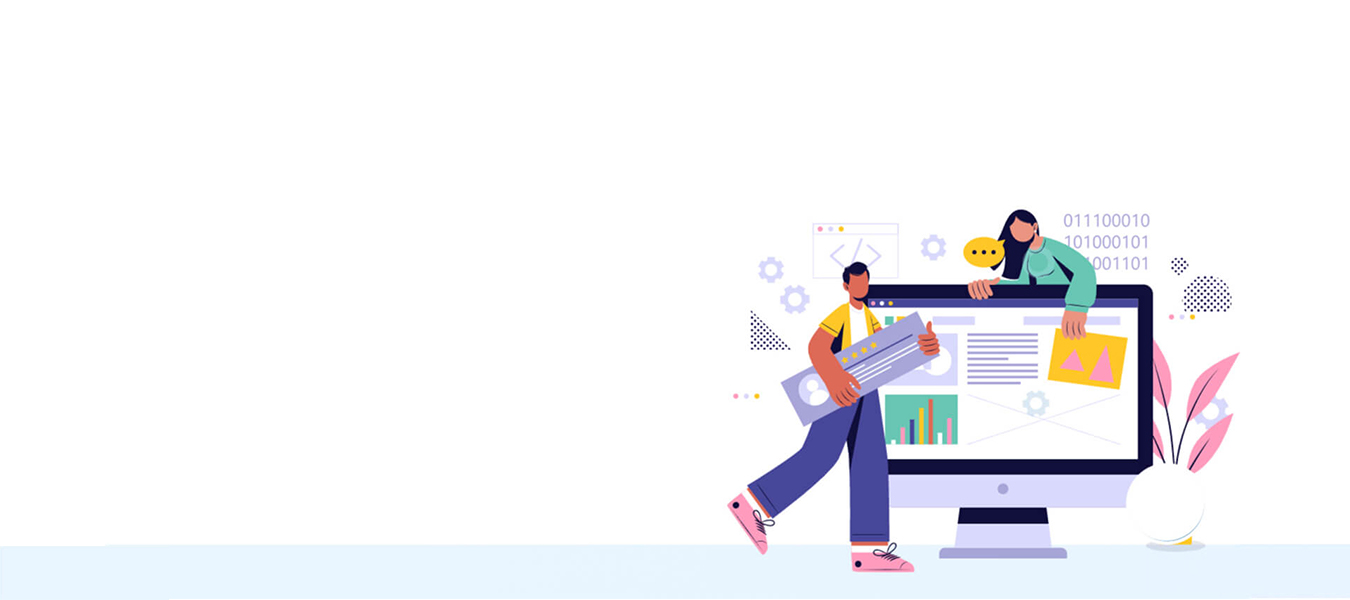
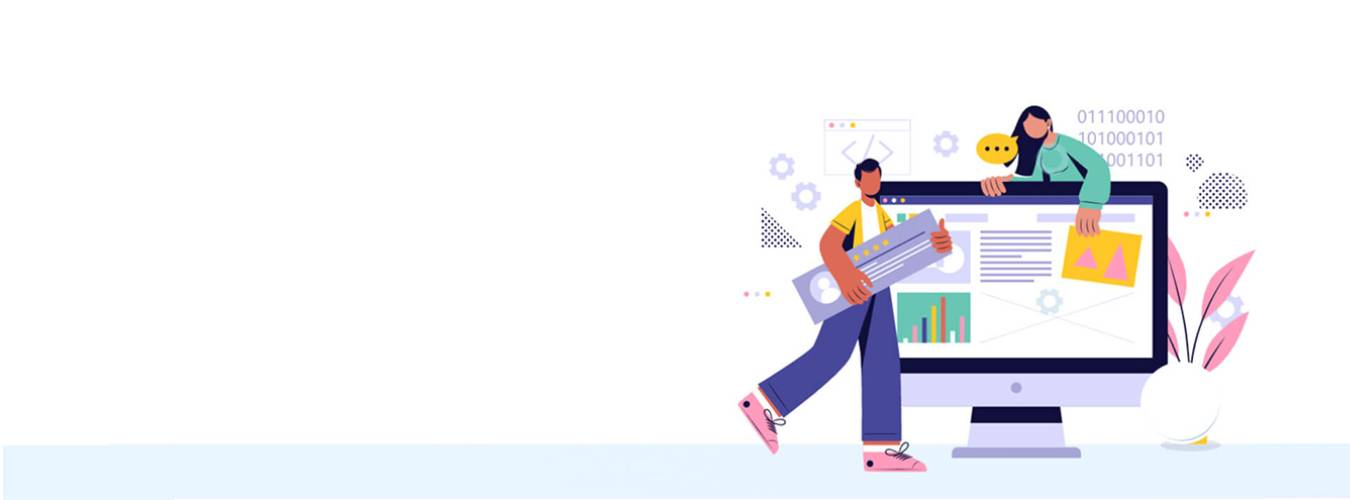
slider image

diff --git a/src/pages/industries/Industries.js b/src/pages/industries/Industries.js
@@ -3,10 +3,19 @@ import React from 'react'
 function Industries() {
     return (
       <>
-        <div>Industries</div>
-        <p>
-          IndustriesIndustriesIndustriesIndustriesIndustriesIndustriesIndustriesIndustriesIndustriesIndustriesIndustriesIndustriesIndustriesIndustriesIndustriesIndustriesIndustriesIndustriesIndustriesIndustriesIndustriesIndustriesIndustriesIndustriesIndustriesIndustriesIndustriesIndustriesIndustriesIndustriesIndustriesIndustriesIndustriesIndustriesIndustriesIndustriesIndustriesIndustriesIndustriesIndustriesIndustriesIndustriesIndustriesIndustriesIndustriesIndustriesIndustriesIndustriesIndustriesIndustriesIndustriesIndustriesInIndustriesIndustriesIndustriesIndustriesIndustriesIndustriesIndustriesIndustriesIndustriesIndustriesIndustriesIndustriesIndustriesIndustriesIndustriesIndustriesIndustriesIndustriesIndustriesIndustriesIndustriesIndustriesIndustriesIndustriesIndustriesIndustriesIndustriesIndustriesIndustriesIndustriesIndustriesIndustriesIndustriesIndustriesIndustriesIndustriesIndustriesIndustriesIndustriesIndustriesIndustriesIndustriesIndustriesIndustriesIndustriesIndustriesIndustriesIndustriesIndustriesIndustriesIndustriesIndustriesInIndustriesIndustriesIndustriesIndustriesIndustriesIndustriesIndustriesIndustriesIndustriesIndustriesIndustriesIndustriesIndustriesIndustriesIndustriesIndustriesIndustriesIndustriesIndustriesIndustriesIndustriesIndustriesIndustriesIndustriesIndustriesIndustriesIndustriesIndustriesIndustriesIndustriesIndustriesIndustriesIndustriesIndustriesIndustriesIndustriesIndustriesIndustriesIndustriesIndustriesIndustriesIndustriesIndustriesIndustriesIndustriesIndustriesIndustriesIndustriesIndustriesIndustriesIndustriesIndustriesIndustriesIndustriesIndustriesIndustriesIndustriesIndustriesIndustriesIndustriesIndustriesIndustriesIndustriesIndustriesIndustriesIndustries
-        </p>
+        <div className="container">
+          <p>
+            LLorem Ipsum is simply dummy text of the printing and typesetting
+            industry. Lorem Ipsum has been the industry's standard dummy text
+            ever since the 1500s, when an unknown printer took a galley of type
+            and scrambled it to make a type specimen book. It has survived not
+            only five centuries, but also the leap into electronic typesetting,
+            remaining essentially unchanged. It was popularised in the 1960s
+            with the release of Letraset sheets containing Lorem Ipsum passages,
+            and more recently with desktop publishing software like Aldus
+            PageMaker including versions of Lorem Ipsum
+          </p>
+        </div>
       </>
     );
 }

diff --git a/src/components/footer/Footer.js b/src/components/footer/Footer.js
@@ -1,41 +1,29 @@
 import React from "react";
+import { Link } from "react-router-dom";
 import "antd/dist/antd.css";
 import "./style.scss";
 import { BackTop, Col, Layout, Row } from "antd";
 import Socialicons from "./Socialicons";
-import facebook from "./Asset/facebook.svg";
-import instagram from "./Asset/instagram.svg";
-import twitter from "./Asset/twitter.svg";
-import behance from "./Asset/behance.svg";
-import linkedin from "./Asset/linkedin.svg";
 import up from "./Asset/up.png";
 import messagei from "../../Assest/messagei.svg";
 import Quickmessage from "../quickmessage/Quickmessage";
+import socialicons from '../../Data/socialicons.json';
 
 const { Footer } = Layout;
-
-const socialicons = [
-  { socialmedia: facebook },
-  { socialmedia: instagram },
-  { socialmedia: twitter },
-  { socialmedia: linkedin },
-  { socialmedia: behance },
-];
 
 const App = (props) => {
   return (
     <>
       <div className="footer">
-        {/* <div className='slidermessage'><img src={messagei} alt={"Message"} /></div>
-         */}
         <Quickmessage messagei={messagei} />
 
         <Layout>
           <Footer>
             <Row>
-              <Col xs={24} md={8} xl={9}>
+              <Col xs={24} md={8} xl={10}>
                 <img className="flogo" src={props.flogo} alt={props.alt} />
-                <p>
+                <p
+                >
                   Lorem ipsum dolor sit amet, consetetur sadipscing elitr, sed
                   diam nonum et.
                 </p>
@@ -44,10 +32,10 @@ const App = (props) => {
               <Col xs={24} sm={24} md={6} xl={5}>
                 <h3>Quick Links</h3>
                 <ul>
-                  <a href="/">
+                  <Link to="/whatwedo">
                     {" "}
                     <li>What we Do</li>{" "}
-                  </a>
+                  </Link>
 
                   <a href="/">
                     {" "}
@@ -92,7 +80,7 @@ const App = (props) => {
                   </a>
                 </ul>
               </Col>
-              <Col xs={24} md={4} xl={5}>
+              <Col xs={24} md={4} xl={4}>
                 <h3>Contact Us</h3>
                 <ul>
                   <li>loremipsum@gmail.com </li>

diff --git a/src/pages/portfolio/Portfolio.js b/src/pages/portfolio/Portfolio.js
@@ -3,18 +3,20 @@ import React from 'react'
 function Portfolio() {
     return (
       <>
-        <div>Portfolio</div>
-        <p>
-          LLorem Ipsum is simply dummy text of the printing and typesetting
-          industry. Lorem Ipsum has been the industry's standard dummy text ever
-          since the 1500s, when an unknown printer took a galley of type and
-          scrambled it to make a type specimen book. It has survived not only
-          five centuries, but also the leap into electronic typesetting,
-          remaining essentially unchanged. It was popularised in the 1960s with
-          the release of Letraset sheets containing Lorem Ipsum passages, and
-          more recently with desktop publishing software like Aldus PageMaker
-          including versions of Lorem Ipsum
-        </p>
+        <div className="container">
+          <div>Portfolio</div>
+          <p>
+            LLorem Ipsum is simply dummy text of the printing and typesetting
+            industry. Lorem Ipsum has been the industry's standard dummy text
+            ever since the 1500s, when an unknown printer took a galley of type
+            and scrambled it to make a type specimen book. It has survived not
+            only five centuries, but also the leap into electronic typesetting,
+            remaining essentially unchanged. It was popularised in the 1960s
+            with the release of Letraset sheets containing Lorem Ipsum passages,
+            and more recently with desktop publishing software like Aldus
+            PageMaker including versions of Lorem Ipsum
+          </p>
+        </div>
       </>
     );
 }

diff --git a/src/pages/contact/Contactus.js b/src/pages/contact/Contactus.js
@@ -3,18 +3,20 @@ import React from 'react'
 function Contactus() {
   return (
     <>
-      <div>Contactus</div>
-      <p>
-        LLorem Ipsum is simply dummy text of the printing and typesetting
-        industry. Lorem Ipsum has been the industry's standard dummy text ever
-        since the 1500s, when an unknown printer took a galley of type and
-        scrambled it to make a type specimen book. It has survived not only five
-        centuries, but also the leap into electronic typesetting, remaining
-        essentially unchanged. It was popularised in the 1960s with the release
-        of Letraset sheets containing Lorem Ipsum passages, and more recently
-        with desktop publishing software like Aldus PageMaker including versions
-        of Lorem Ipsum
-      </p>
+      <div className="container">
+        <div>Contactus</div>
+        <p>
+          L orem Ipsum is simply dummy text of the printing and typesetting
+          industry. Lorem Ipsum has been the industry's standard dummy text ever
+          since the 1500s, when an unknown printer took a galley of type and
+          scrambled it to make a type specimen book. It has survived not only
+          five centuries, but also the leap into electronic typesetting,
+          remaining essentially unchanged. It was popularised in the 1960s with
+          the release of Letraset sheets containing Lorem Ipsum passages, and
+          more recently with desktop publishing software like Aldus PageMaker
+          including versions of Lorem Ipsum
+        </p>
+      </div>
     </>
   );
 }

diff --git a/src/pages/technology/Technologies.js b/src/pages/technology/Technologies.js
@@ -1,9 +1,14 @@
 import React from 'react'
+import Pageheader from "../../common/Pageheader";
 
 function Technologies() {
     return (
       <>
-        <p>Lorem Ipsum is simply dummy text of the printing and typesetting
+        <div className="container">
+        <Pageheader />
+
+        <p>
+          Lorem Ipsum is simply dummy text of the printing and typesetting
           industry. Lorem Ipsum has been the industry's standard dummy text ever
           since the 1500s, when an unknown printer took a galley of type and
           scrambled it to make a type specimen book. It has survived not only
@@ -11,9 +16,11 @@ function Technologies() {
           remaining essentially unchanged. It was popularised in the 1960s with
           the release of Letraset sheets containing Lorem Ipsum passages, and
           more recently with desktop publishing software like Aldus PageMaker
-          including versions of Lorem Ipsum</p>
-        
-        <div>Technologies</div>
+          including versions of Lorem Ipsum
+        </p>
+
+          <div>Technologies</div>
+          </div>
       </>
     );
 }

diff --git a/src/containers/screens/homeslider/style.scss b/src/containers/screens/homeslider/style.scss
@@ -2,13 +2,13 @@
 @import "../../../components/buttons/style.scss";
 
 .contentstyle{
-    height: 550px;
+    height: 500px;
     background:url('./sliderimages/slider.jpg');background-repeat: no-repeat;background-size: cover;background-position: bottom;  
     // border-bottom: 50px solid #e9f5ff;
 }
 
 .contentstyle {
-    .content{padding-top:6rem;position: relative;} 
+    .content{position: relative;}  // padding-top:6rem;
     h1{line-height: 1;font-weight: 700;}
     span{color: $tertiarycolor;}
     // .slidermessage img{display: none}

diff --git a/src/components/footer/Socialicons.js b/src/components/footer/Socialicons.js
@@ -1,13 +1,14 @@
 import React from "react";
+import { Link } from "react-router-dom";
 import "./style.scss";
 
 function Socialicons(props) {
   return (
       <div className="socialicons">
         {props.socialicons.map((element, key) => (
-          <a href="/" key={key}>
+          <Link to={element.link} key={key}>
             <img src={element.socialmedia} alt={element.alt} />{" "}
-          </a>
+          </Link>
         ))}
       </div>
   );

diff --git a/src/App.scss b/src/App.scss
@@ -110,7 +110,7 @@ header
 ------ 
 */
 .ant-layout-header {
-  position: fixed;
+  // position: fixed;
   left: 0;
   right: 0;
   z-index: 999;
